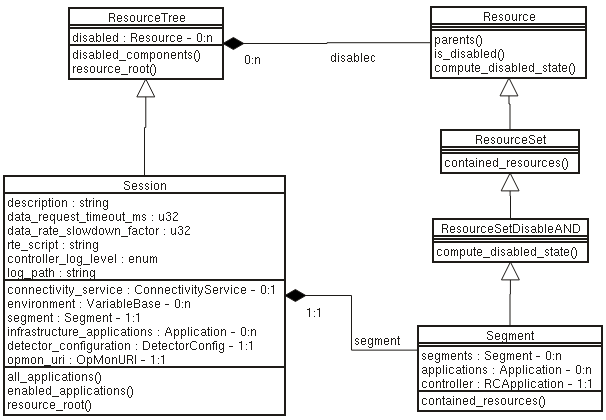
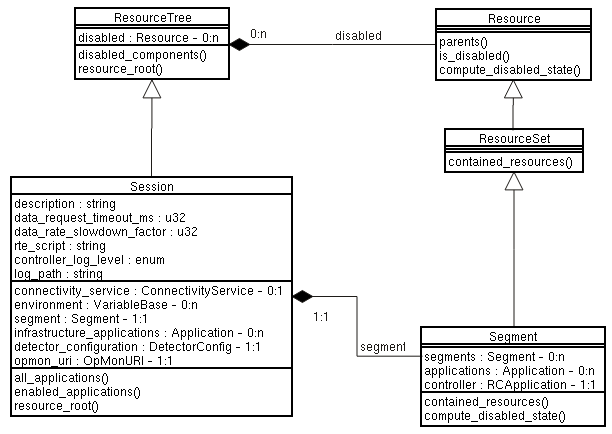
""

Changed region(s): [[0.0, 0.0, 1.0, 0.9905]]

diff --git a/docs/packages/confmodel/README.md b/docs/packages/confmodel/README.md
@@ -23,30 +23,30 @@ The **Application** class has attributes defining the application's
 
 
 **Resource** is an abstract class describing an item that can be
-disabled directly. It has the method `disabled()` which can be called
+disabled directly. It has the method `is_disabled(const dunedaq::confmodel::ResourceTree& session)` which can be called
 by application code to determine if the object should be considered
-disabled for this session. The [disabling logic](#the-resource-disabled-logic) calls the virtual
-`is_disabled()` method to determine the state of the Resource. The
+disabled for this session (Session is a subclass of ResourceTree). The [disabling logic](#the-resource-disabled-logic) calls the virtual
+`compute_disabled_state(const std::set<std::string>& disabled_resources)` method to determine the state of the Resource, the disabled_resources argument is a list of UIDs of all the Resources that have been disabled so far. The
 implementation provided by the base class just checks that the object
 itself is not in the list of disabled objects. Derived classes can
 re-implement this method with whatever logic is needed to determine the
 state of the object, for example the **ResourceSetDisableAND** class
 provides an implementation that ANDs together the state of all of its
-contained objects.
+contained objects. 
 
 
 **ResourceSet** is an abstract container of **Resource**s which can be disabled together. It
-is itself a Resource (so can be nested). It defines a pure virtual method `contained_resources()` to get the list of contained resources. Developers should implement this method to extract any resources that need to be considered for determining the disabled state of the set from among the class's relationships. The class may have relationships to other Resource derived
+is itself a Resource (so can be nested). It defines a pure virtual method `contained_resources()` which returns a vector of pointers to 'contained' resources. Developers should implement this method to extract any resources that need to be considered for determining the disabled state of the set from among the class's relationships. The class may have relationships to other Resource derived
 objects that will be ignored for the disabled check.
 
 
 **ResourceSetDisableAND** is a container of **Resource**s which will
 be disabled if *all* of its **Resource**s are disabled. It provides a
-final implementation of the ResourceSet::is_disabled() method.
+final implementation of the ResourceSet::compute_disabled_state() method.
 
 
 **ResourceSetDisableOR** is a container of **Resource**s which
-provides a final implementation of the ResourceSet::is_disabled()
+provides a final implementation of the ResourceSet::compute_disabled_state()
 method returning true if *any* of its contained **Resource**s are
 disabled.
 
@@ -78,7 +78,7 @@ are also disabled.
 A list of all ResourceSets in the tree is generated by recursively
 calling `contained_resources()` and iterating over all the ResourceSets.
 Then it iterates over the list of **ResourceSet**s. If a ResourceSet
-is not currently in the disabled set, it will call the `is_disabled()`
+is not currently in the disabled set, it will call the `compute_disabled_state()`
 method to see if its state has been changed by the current content of
 the disabled set. It will repeat this procedure until an iteration
 that ends with the same number of disabled resources it started with.
@@ -101,7 +101,7 @@ single **DetDataReceiver**.
 
 ### Resource handling in the readout map
 
-The **DetectorToDaqConnection** is a **ResourceSet** with a custom implementation of `is_disabled()` that checks that the **DetDataReceiver** and at least one **DetDataSender** are enabled.
+The **DetectorToDaqConnection** is a **ResourceSet** with a custom implementation of `compute_disabled_state()` that checks that the **DetDataReceiver** and at least one **DetDataSender** are enabled.
 
 The **DetDataSender** is a **ResourceSetDisableAND** that contains a set of **DetectorStream** **Resource**s.
 
@@ -142,7 +142,7 @@ _Last git commit to the markdown source of this page:_
 
 _Author: Gordon Crone_
 
-_Date: Tue Jul 1 16:19:24 2025 +0100_
+_Date: Mon Oct 27 15:46:35 2025 +0000_
 
 _If you see a problem with the documentation on this page, please file an Issue at [https://github.com/DUNE-DAQ/confmodel/issues](https://github.com/DUNE-DAQ/confmodel/issues)_
 </font>
